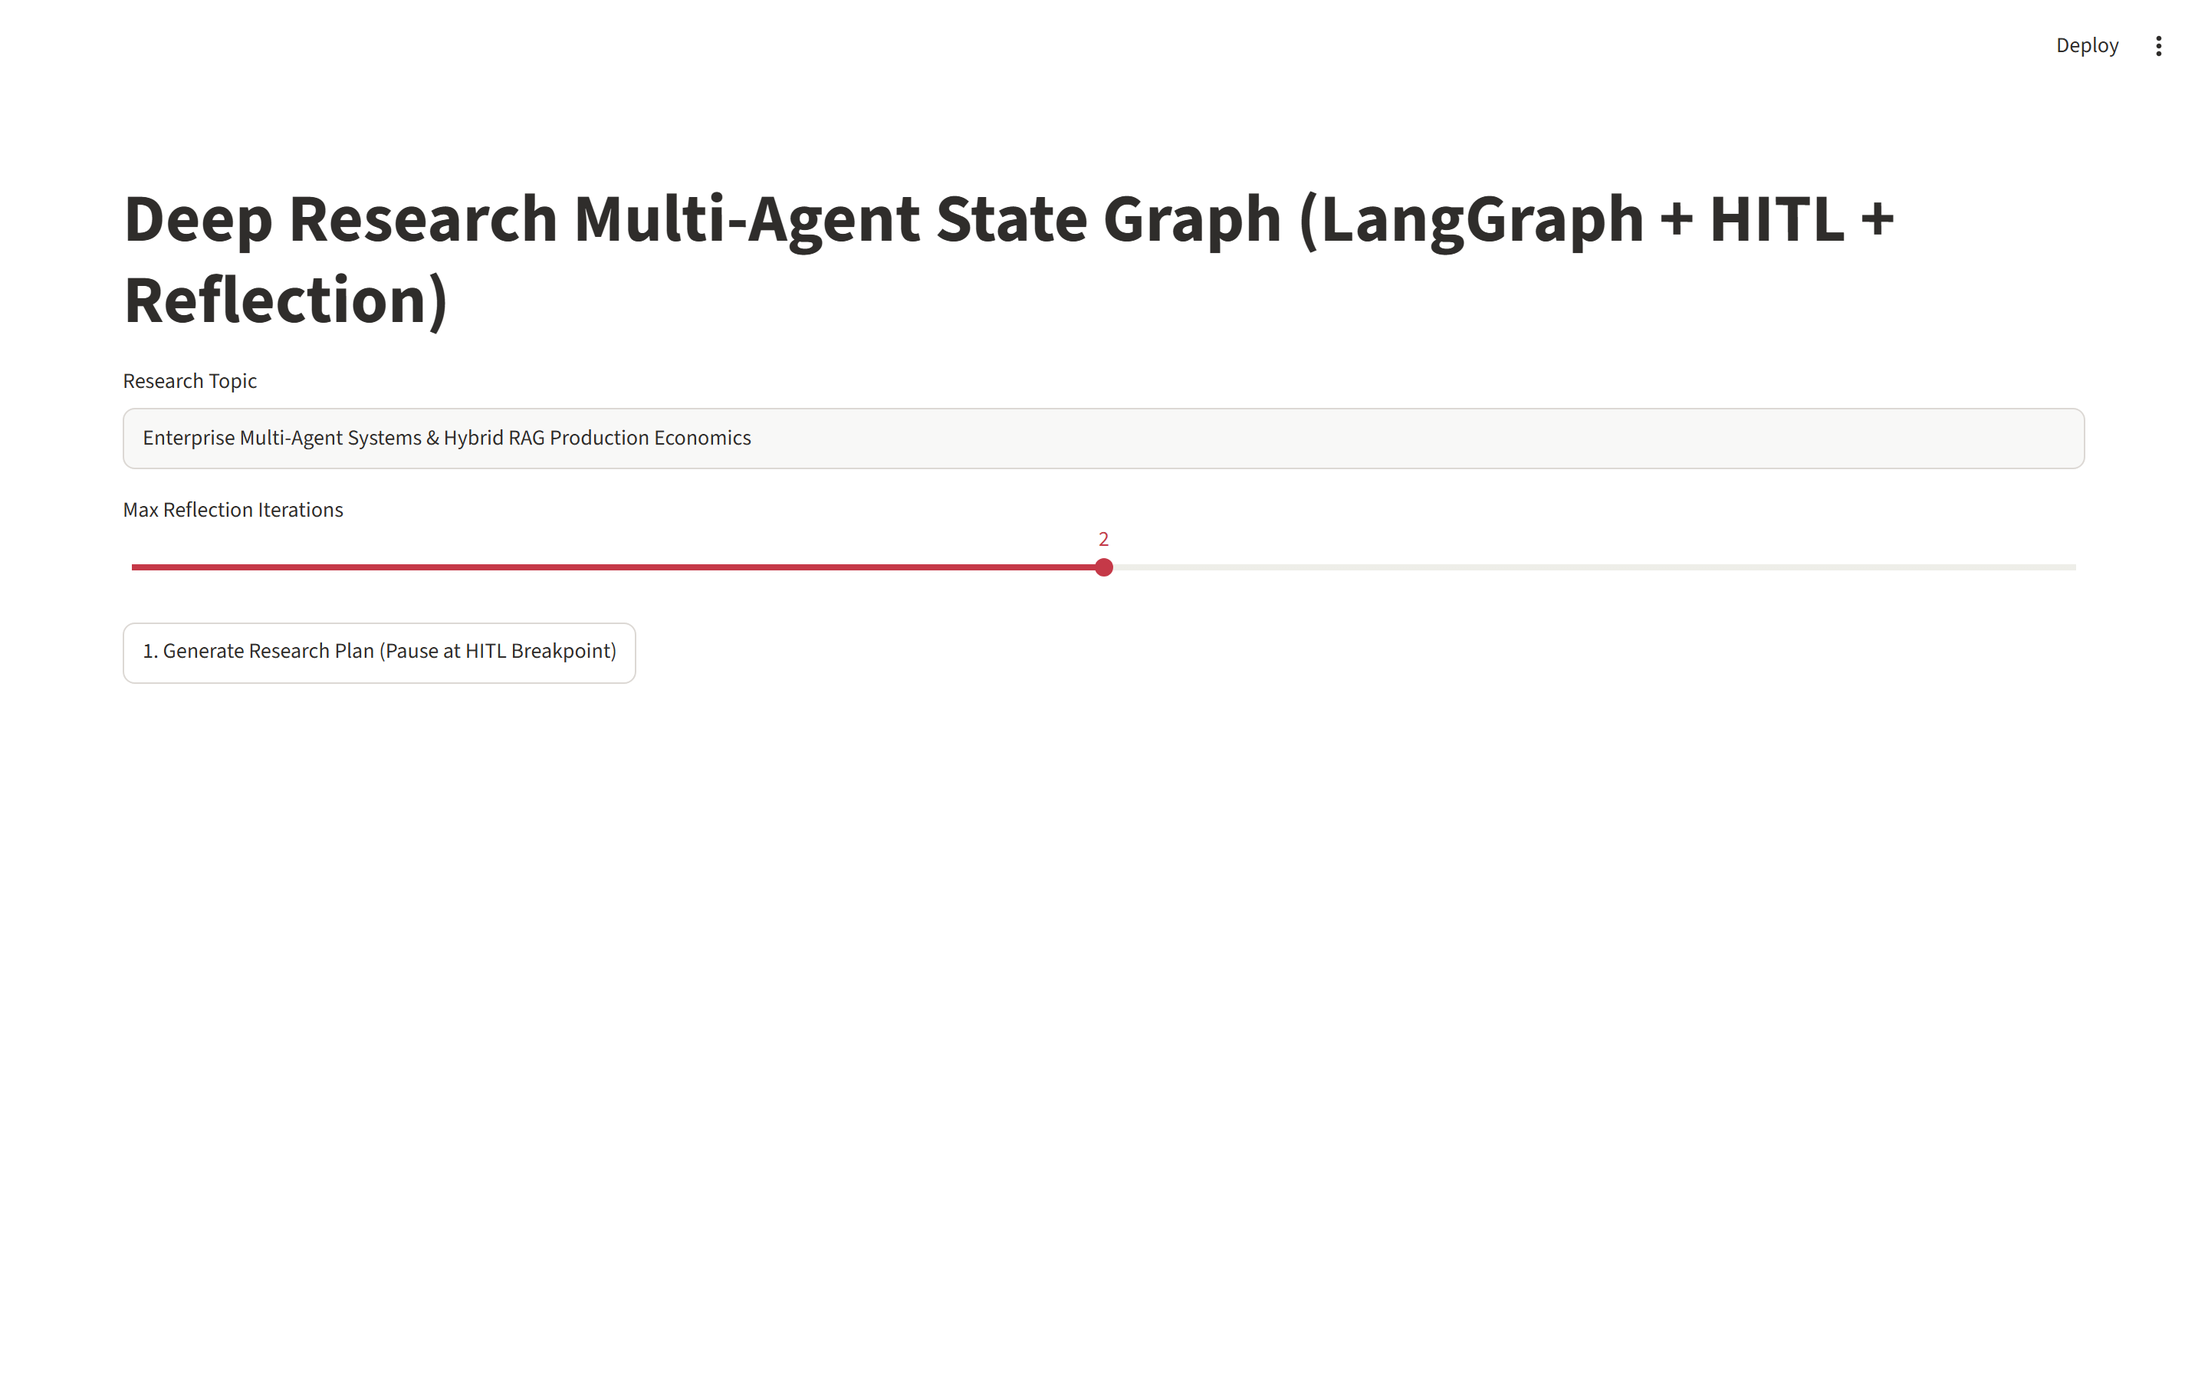
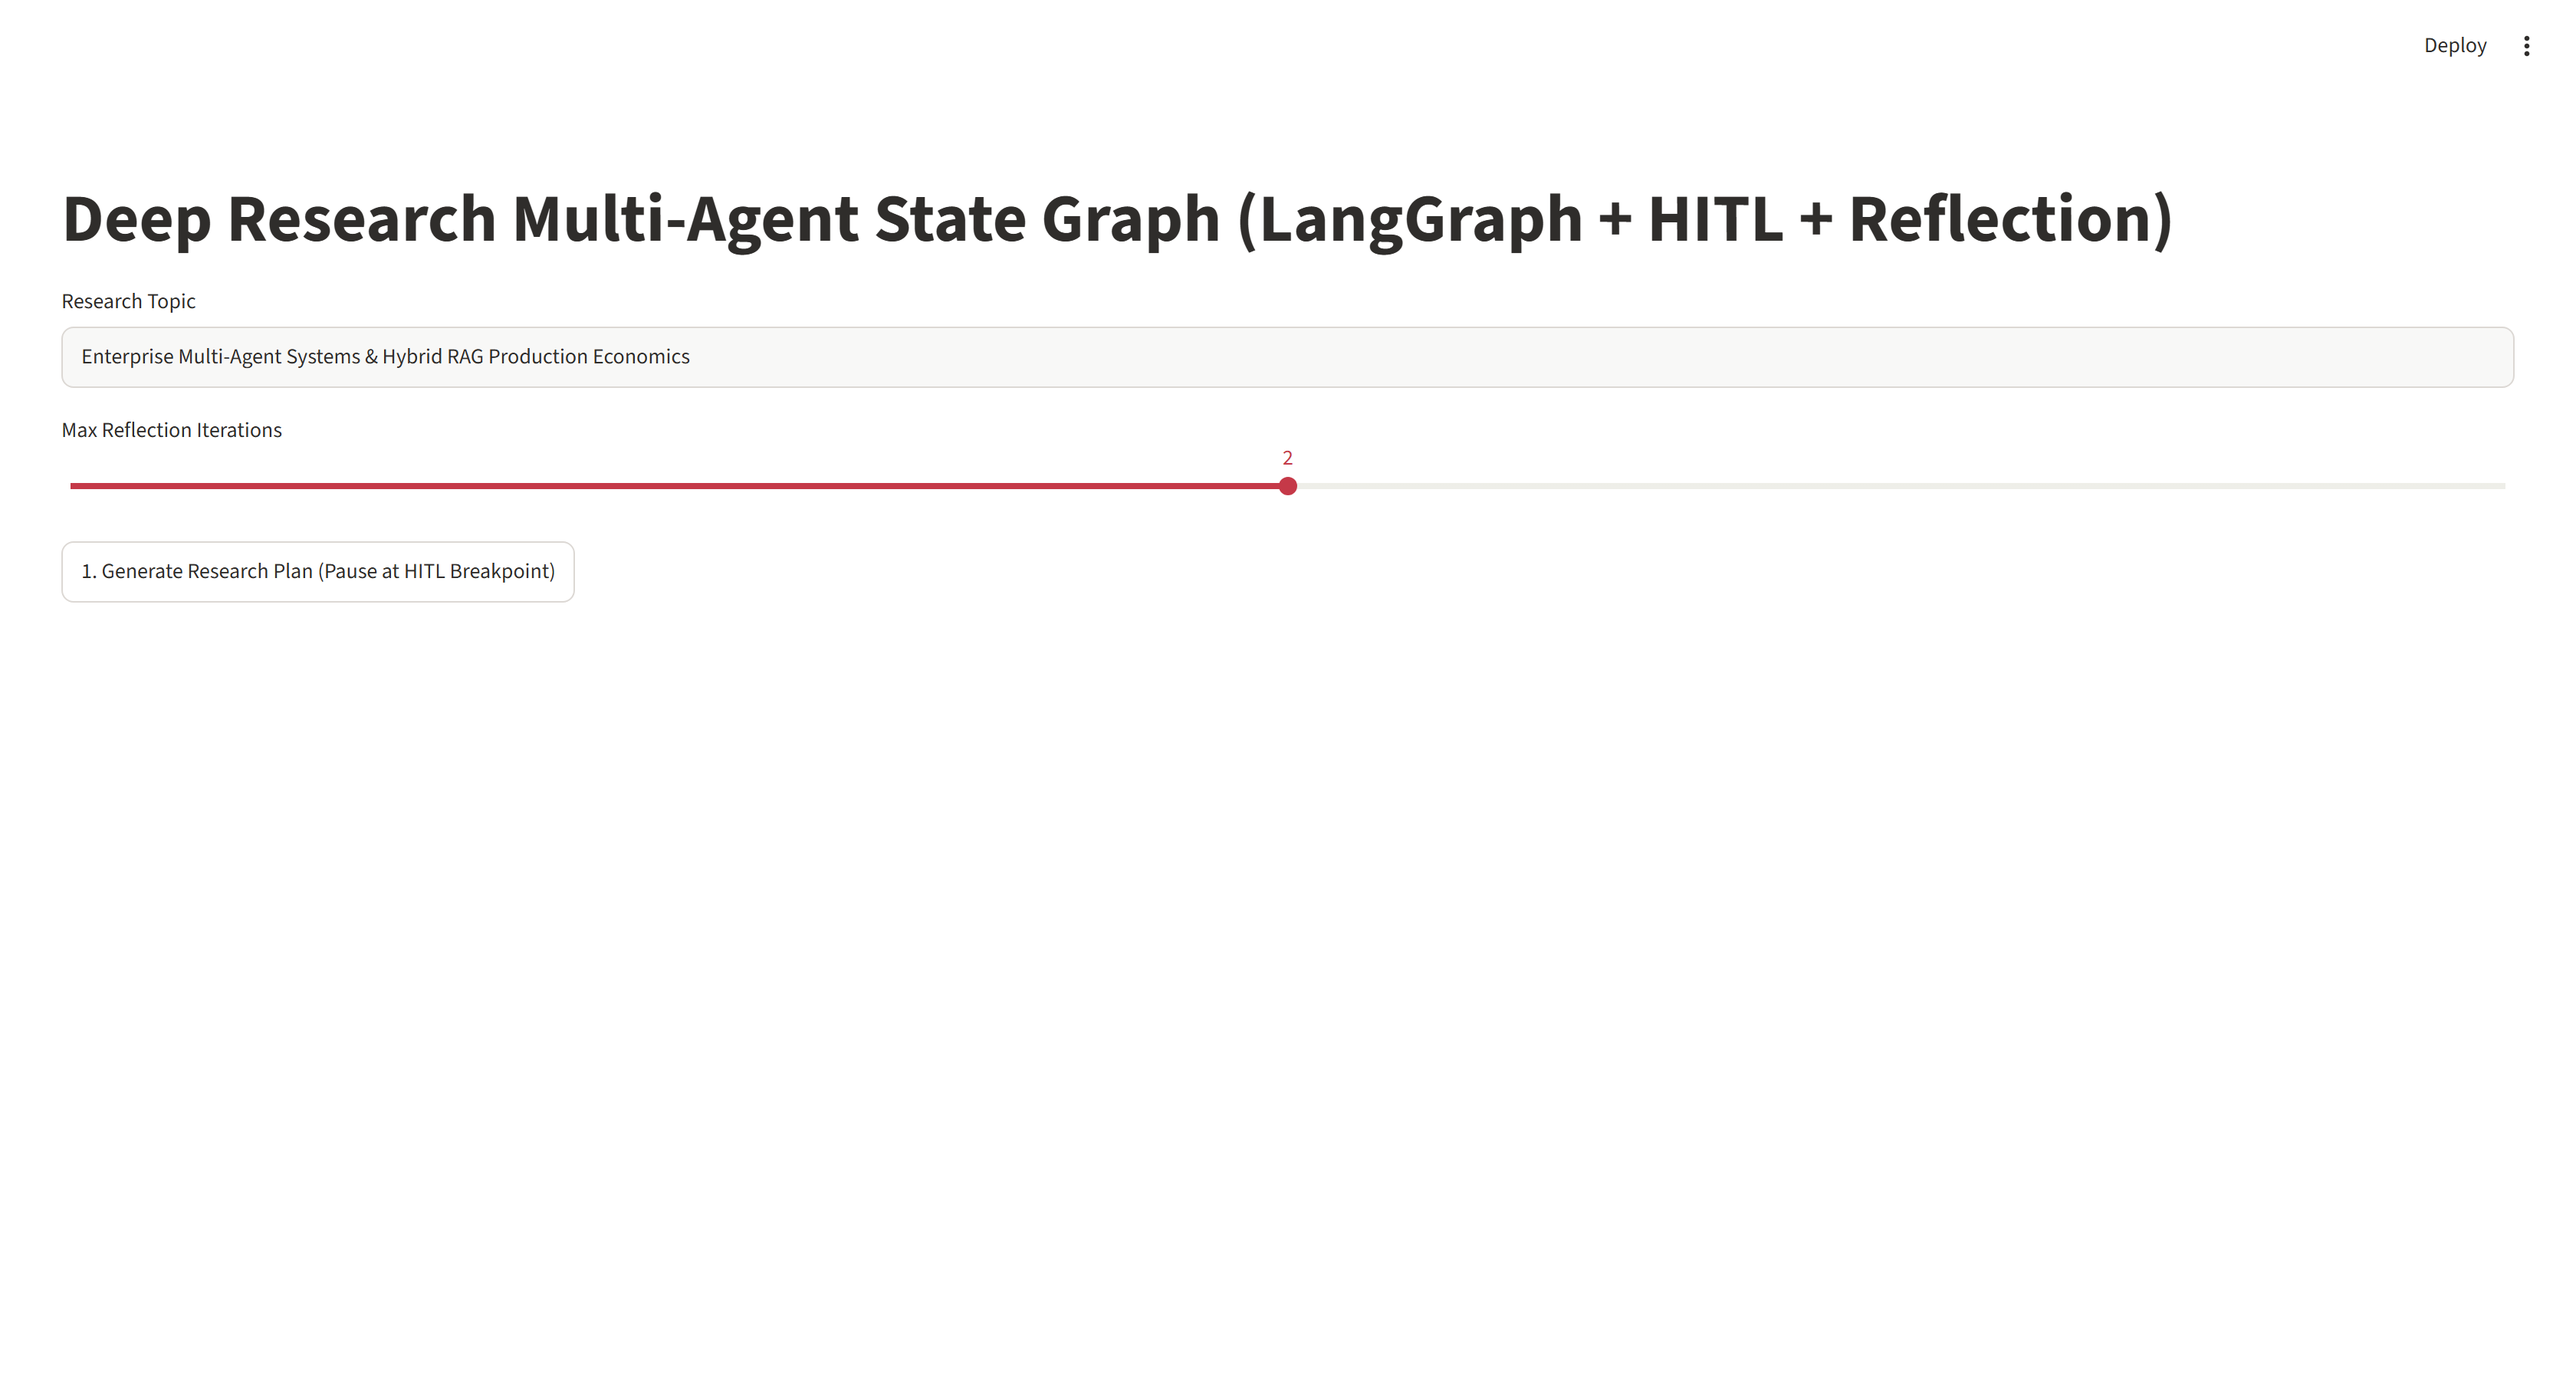
docs: update screenshots

diff --git a/screenshots/README.md b/screenshots/README.md
@@ -4,21 +4,29 @@
 
 ![підсумок тестів](01_tests.png)
 
+### після дії: результат на екрані
+
+![після дії: результат на екрані](02_dash1_action.png)
+
+### після схвалення плану: кроки агентів і готовий звіт
+
+![після схвалення плану: кроки агентів і готовий звіт](02_dash1_action2_report.png)
+
 ### дашборд: перший екран
 
 ![дашборд: перший екран](02_dash1_overview.png)
 
-### дашборд повністю
+### дашборд: уся сторінка
 
-![дашборд повністю](02_dash1_overview_full.png)
+![дашборд: уся сторінка](02_dash1_overview_full.png)
 
-### виклик API і відповідь
+### виклик API на підготовлених демо-даних і відповідь
 
-![виклик API і відповідь](03_api_call1_post-v1-research.png)
+![виклик API на підготовлених демо-даних і відповідь](03_api_call1_post-v1-research.png)
 
-### виклик API і відповідь
+### виклик API на підготовлених демо-даних і відповідь
 
-![виклик API і відповідь](03_api_call2_get.png)
+![виклик API на підготовлених демо-даних і відповідь](03_api_call2_get-v1-research-stream.png)
 
 ### документація API
 

diff --git a/README.md b/README.md
@@ -183,9 +183,9 @@ ruff check .
 
 ![документація API](screenshots/03_api_docs.png)
 
-![підсумок тестів](screenshots/01_tests.png)
+![після дії: результат на екрані](screenshots/02_dash1_action.png)
 
-Усі скріншоти (7): [screenshots/](screenshots/README.md)
+Усі скріншоти (9): [screenshots/](screenshots/README.md)
 
 
 ---
